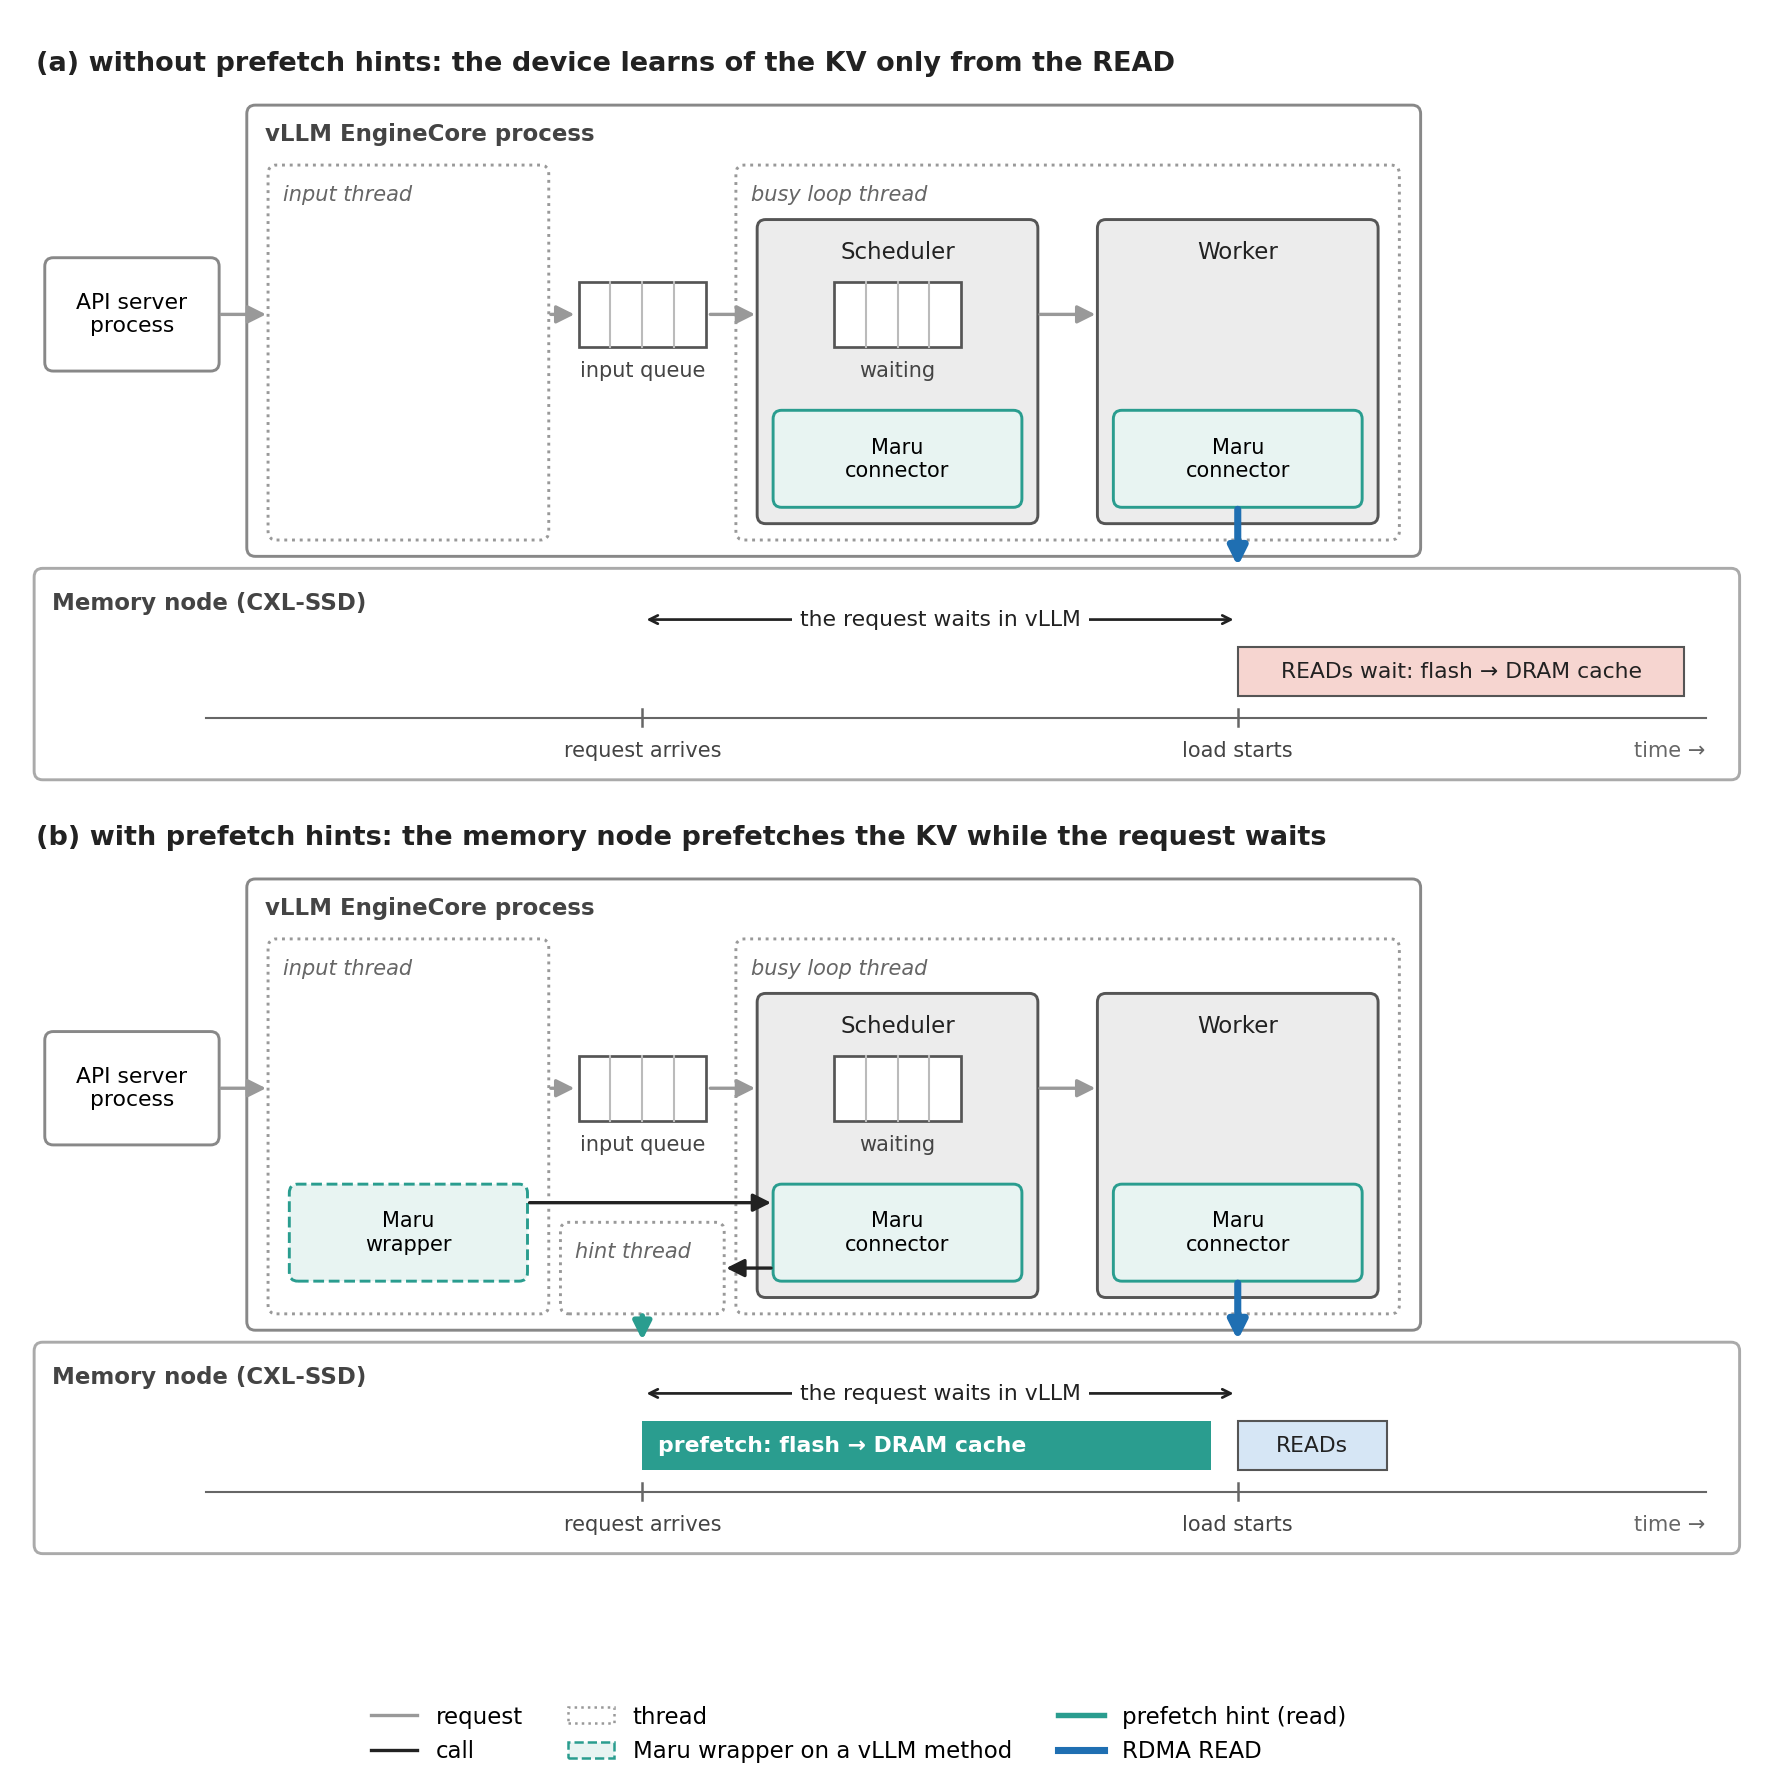
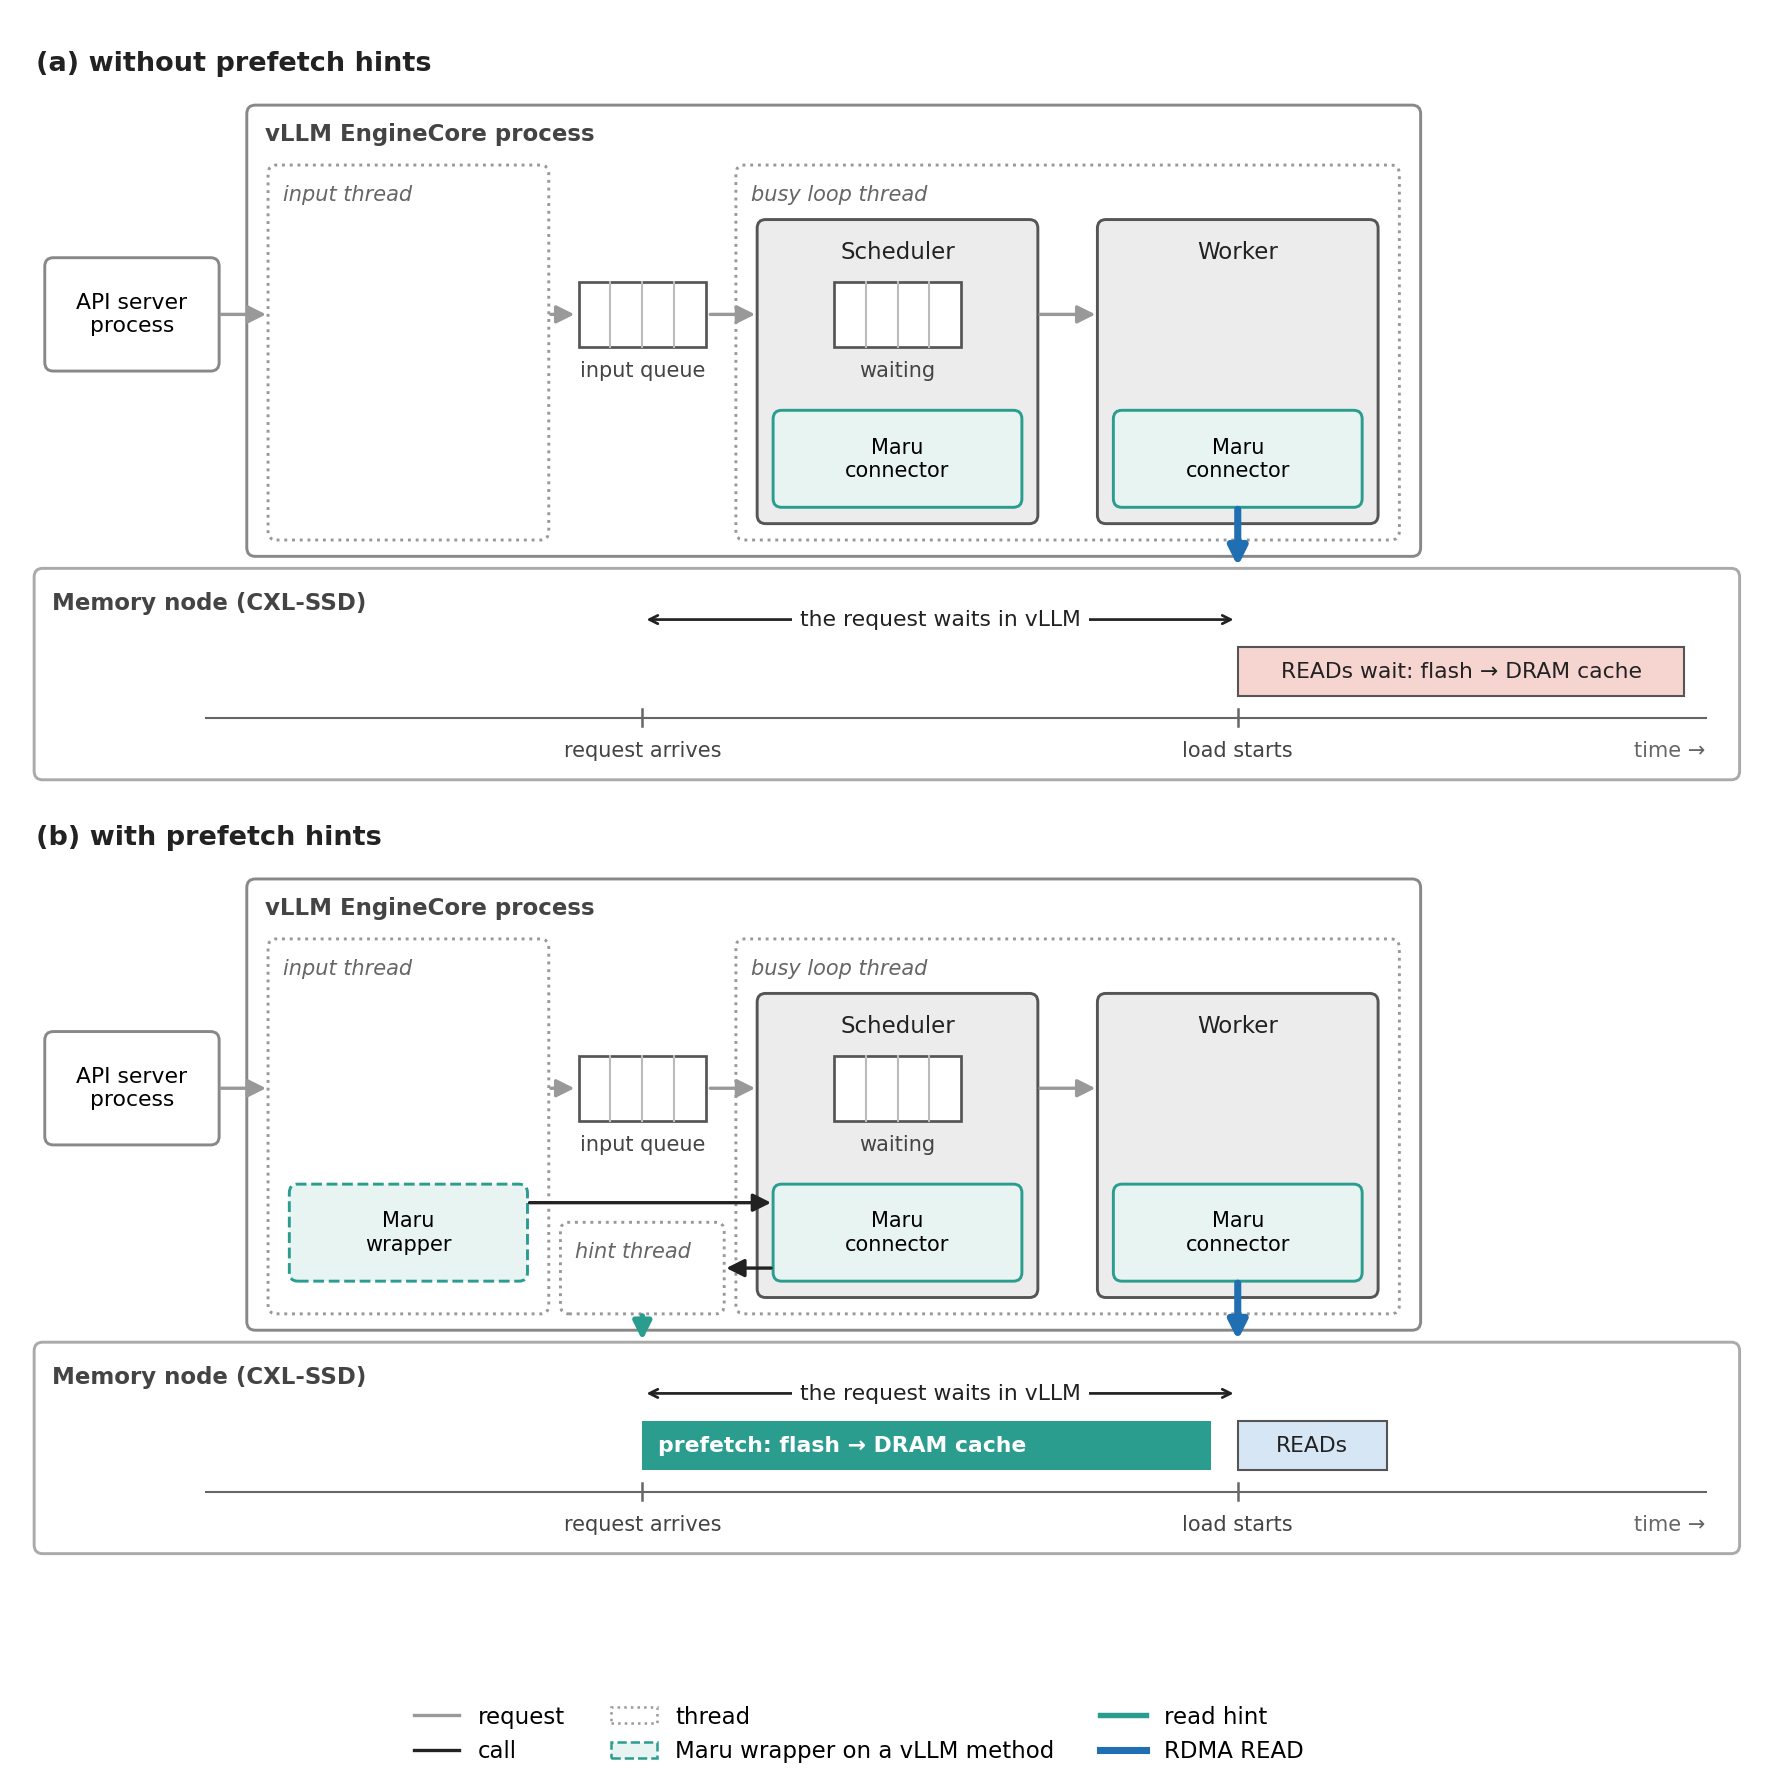
docs: shorter panel titles in the prefetch hint figure; say which thread sends the hint

Changed region(s): [[0.2171, 0.9541, 0.7445, 0.9849], [0.2171, 0.4617, 0.7445, 0.4924], [0.2482, 0.0308, 0.6514, 0.0616]]

diff --git a/docs/source/design_doc/read_hints.md b/docs/source/design_doc/read_hints.md
@@ -22,12 +22,13 @@ the same with or without hints.
 
 ![Two panels of the same vLLM engine with the Maru connector, each above a strip for the memory node (CXL-SSD) on a time axis from "request arrives" to "load starts". (a) Without prefetch hints: the request goes from the API server process through the input thread, the input queue and the scheduler's waiting queue to the worker, whose Maru connector sends the RDMA READ at "load starts"; on the memory node nothing happens while the request waits in vLLM, and then the READs wait while the device brings the KV from flash into its DRAM cache. (b) With prefetch hints: a Maru wrapper on the input thread's preprocess step hands the request to the scheduler's Maru connector, whose hint thread sends a read hint that reaches the memory node at "request arrives"; the device prefetches the KV from flash into its DRAM cache while the request waits, and the READs at "load starts" find it there](../image/read_hints_path.png)
 
-*Where a read hint leaves vLLM (schematic). Without hints (a), the device learns
-which KV is needed only from the READ. With hints (b), Maru sends the hint from
-vLLM's input thread as the request arrives, before the request reaches the
-scheduler's queues, so the device prefetches during the request's wait. Panel
-(b) is the path with `maru_read_hint_on_arrival`; without it, the read hint
-leaves when the scheduler first looks the request up. The memory node strip is
+*Where a read hint leaves vLLM (schematic). Without prefetch hints (a), the
+device learns which KV is needed only from the READ. With prefetch hints (b),
+Maru's wrapper runs on vLLM's input thread and calls the scheduler's Maru
+connector there; its hint thread sends the read hint before the request enters
+the input queue, so the device prefetches while the request waits. Path (b)
+needs `maru_read_hint_on_arrival`; without it, the read hint leaves when the
+scheduler first looks the request up. The memory node strip is
 simplified: a hint reaches the device through the remote
 CXL agent and the region extension (below).*
 
